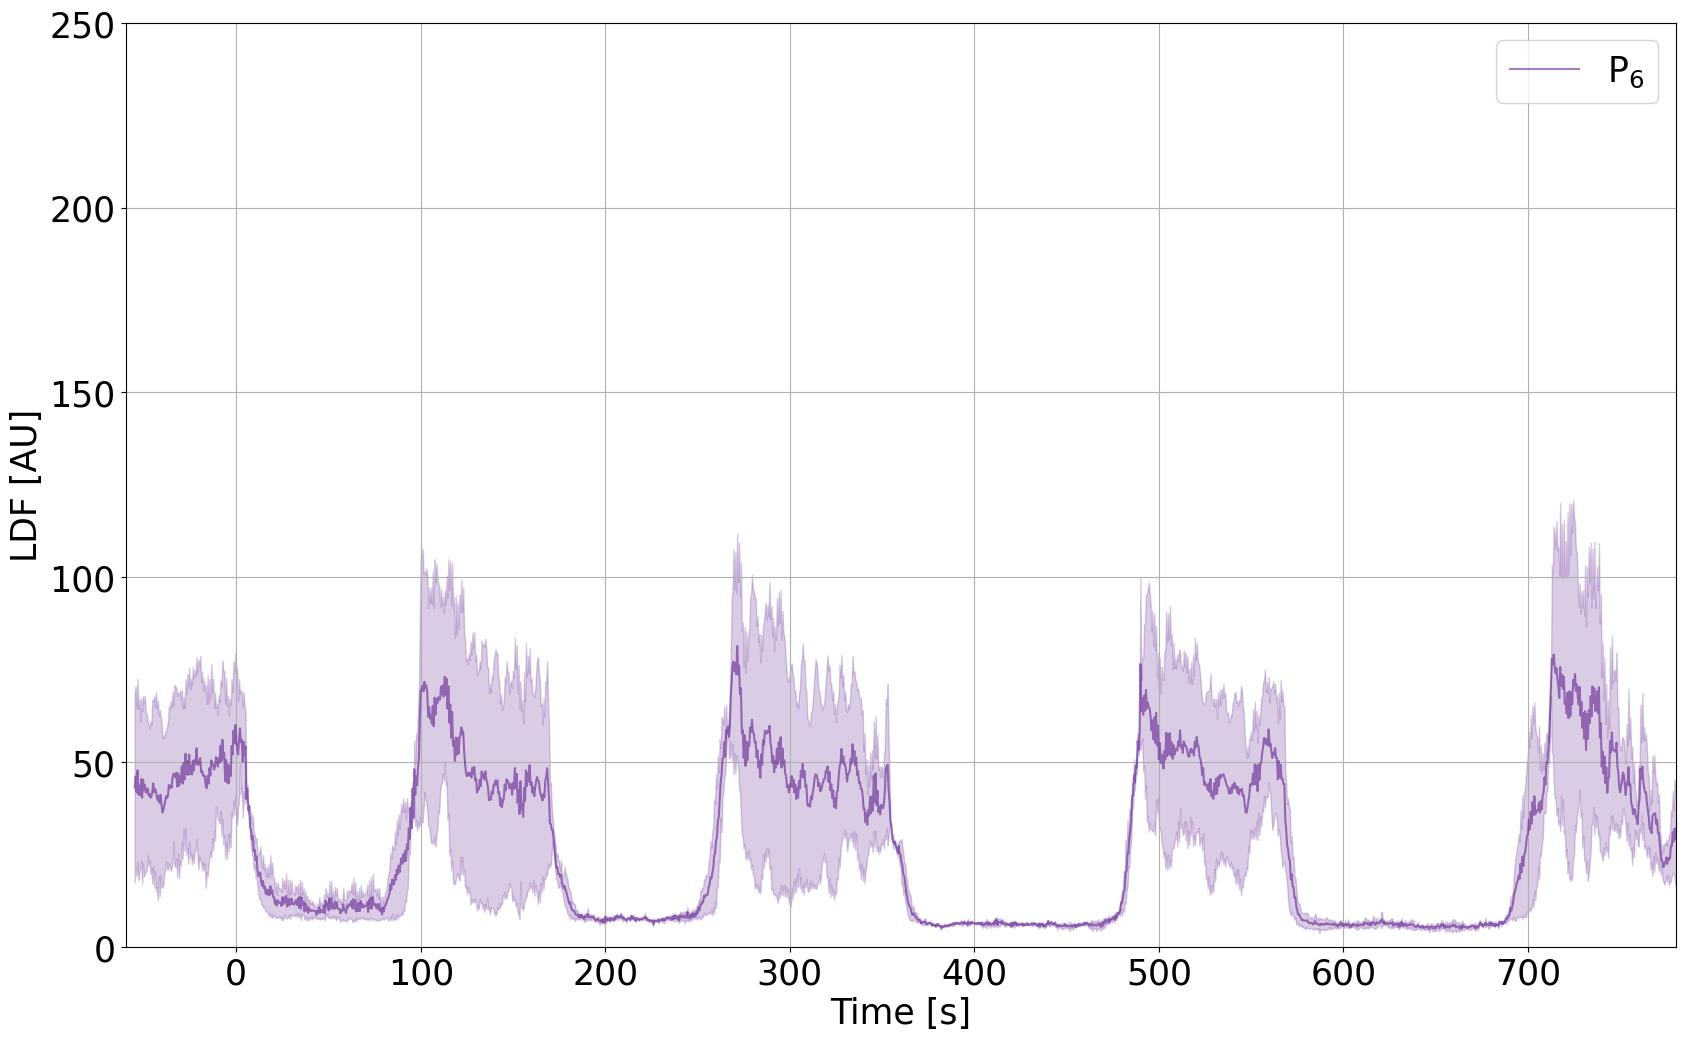
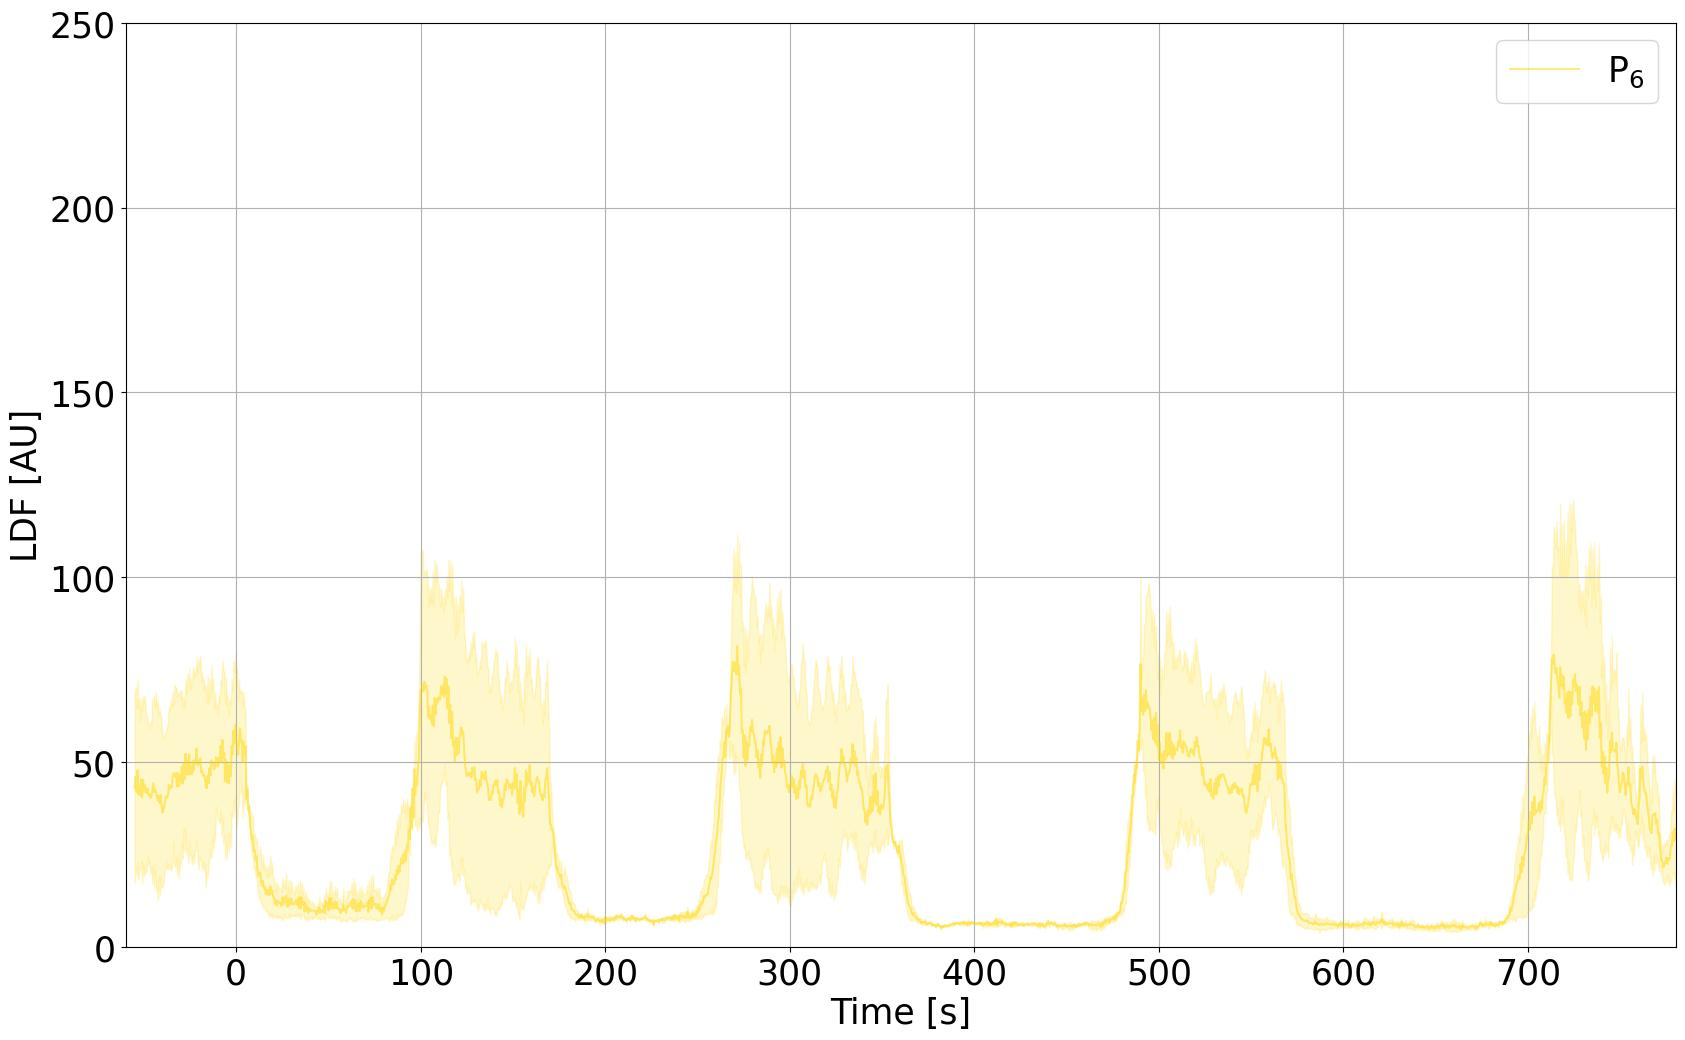
update gitignore

Changed region(s): [[0.1543, 0.4923, 1.0, 0.9231], [0.0617, 0.6462, 0.1543, 0.8615], [0.895, 0.0615, 0.9258, 0.0923]]

diff --git a/Experimental_Data/LDF_post_treatment.py b/Experimental_Data/LDF_post_treatment.py
@@ -1426,8 +1426,8 @@ for i in range(length_list_PLA+110):
 plt.rcParams.update({'font.size': 25})
 plt.figure(figsize=(20, 12))
 # # 
-plt.plot(PLA_PREVAIL_LBM_030["j1_2"]["temps (s)"][index_12_PLA-110:index_12_PLA+length_list_PLA], PLA_mean_signal_raw, color='indigo', label="P$_6$", alpha=0.5)
-plt.fill_between(PLA_PREVAIL_LBM_030["j1_2"]["temps (s)"][index_12_PLA-110:index_12_PLA+length_list_PLA], PLA_mms_raw, PLA_mps_raw, color='indigo', alpha=0.2)
+plt.plot(PLA_PREVAIL_LBM_030["j1_2"]["temps (s)"][index_12_PLA-110:index_12_PLA+length_list_PLA], PLA_mean_signal_raw, color='gold', label="P$_6$", alpha=0.5)
+plt.fill_between(PLA_PREVAIL_LBM_030["j1_2"]["temps (s)"][index_12_PLA-110:index_12_PLA+length_list_PLA], PLA_mms_raw, PLA_mps_raw, color='gold', alpha=0.2)
 plt.legend()
 plt.xlim([-60, 780])
 plt.ylim([0, 250])
